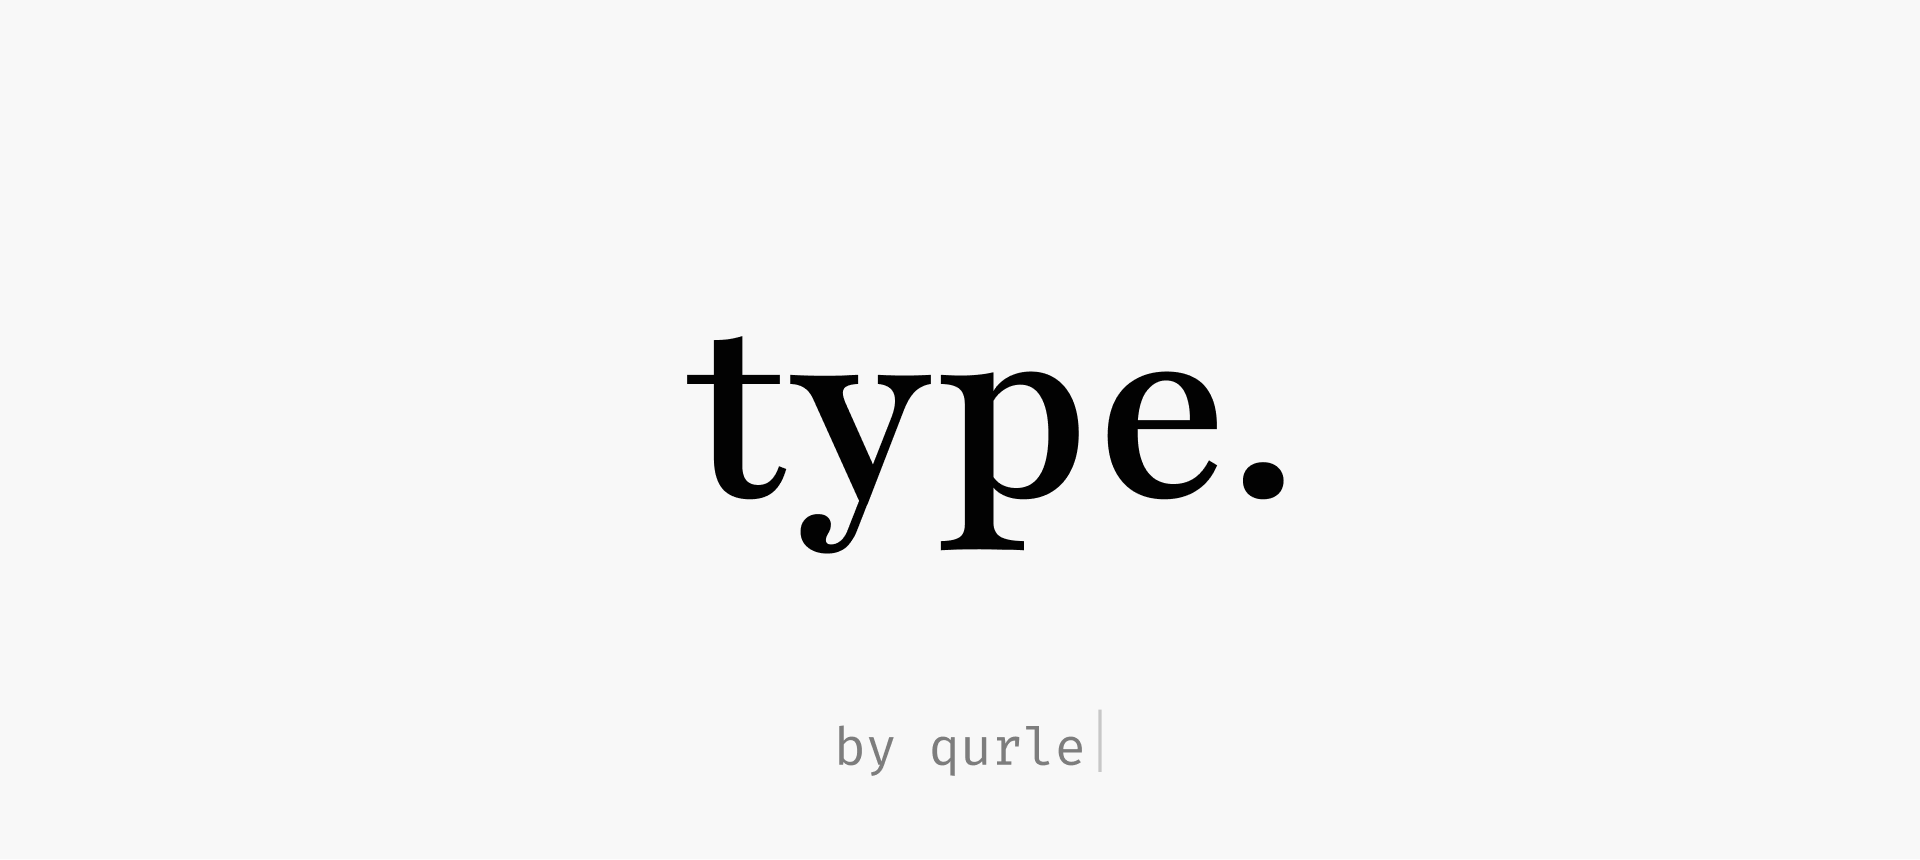
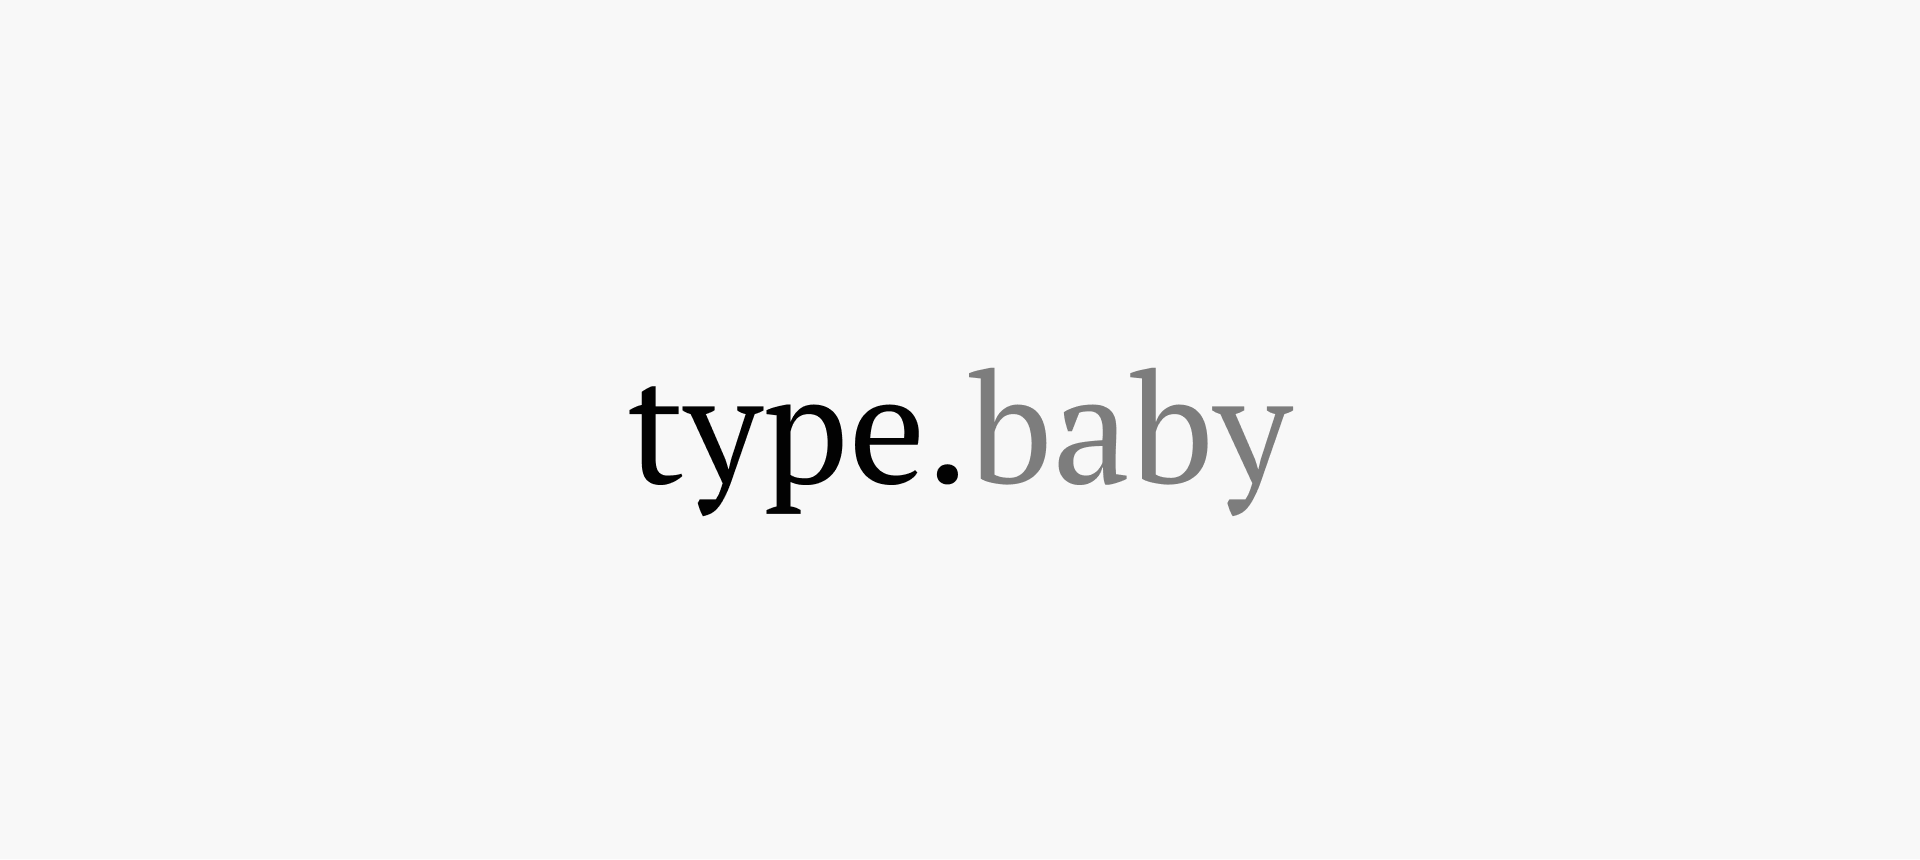
readme update

Changed region(s): [[0.3125, 0.393, 0.6875, 0.6651], [0.4375, 0.8465, 0.5625, 0.907]]

diff --git a/src/styles/editor.sass b/src/styles/editor.sass
@@ -69,6 +69,9 @@
         border-left: 4px solid var(--color-main-50)
         padding-left: var(--space-l)
 
+    hr
+        magin: var(--space-m) 0
+
     &::after
         transition: opacity var(--transition-m)
         content: 'drop .md and .txt to edit \A drop images to insert'

diff --git a/README.md b/README.md
@@ -3,7 +3,7 @@
 ![Vercel](https://vercelbadge.vercel.app/api/qurle/type?style=flat) ![Static Badge](https://img.shields.io/badge/badass-code-white?style=flat)
 
 
-Zen editor for those who love simplicity.
+Zen editor for those who love simplicity. Start typing at [type.baby](https://type.baby/)
 
 ![hero image](https://github.com/qurle/type/blob/main/.github/hero.png)
 
@@ -14,26 +14,26 @@ Zen editor for those who love simplicity.
 
 
 Distractions and interfaces may restrain your thoughts. Unleash your creativity and just type your thoughts / blog posts / notes / docs.
-Fast and simple. 
 
 You can also switch between themes and fonts. Every wish to have notebook with colored pages?
 
 ![themes and fonts of type](https://github.com/qurle/type/blob/main/.github/style.png)
 
 
+Type is local and private and works even in offline mode. Export and upload markdown and text files, copy and paste webiste pages. Right in your browser. 
+
 ## mark it down
 Every note is markdown file. 
 
 ![typing in markdown with type](https://github.com/qurle/type/blob/main/.github/demo.gif)
 
-You can download it and upload via drag'n'drop (mobiles, we'll catch you later!). Markdown is easy markup language which makes **type.** more than plain text editor. 
+Markdown is easy markup language which makes **type.** more than plain text editor. 
 
 For example, there are things like `# Headings`, `**bold texts**` and <code>\`code\`</code>. You can check more rules [here](https://www.markdownguide.org/basic-syntax/).
 
 ## technologies
-Shout out to [MDXEditor](https://github.com/mdx-editor/editor) — core engine of **type.** It's not always perfect, but it can do a lot of things. There are also [React](https://github.com/facebook/react) and [Astro](https://github.com/withastro/astro) frameworks under the hood.
+Shout out to [Milkdown](https://milkdown.dev/) — core engine of **type.**. There is [Astro](https://github.com/withastro/astro) framework under the hood.
 
-Notes and styling are saved locally, so it works quite fast. Offline mode is coming soon.
 
 ## special thanks
 Of course **type.** is inspired by apps like [iA Writer](https://ia.net/writer), [Teletype](https://teletype.in/), [Telegraph](https://telegra.ph/) and [Notion](https://notion.so/). It was created as DIY alternative, but it's also the project I'd like to evolve.
